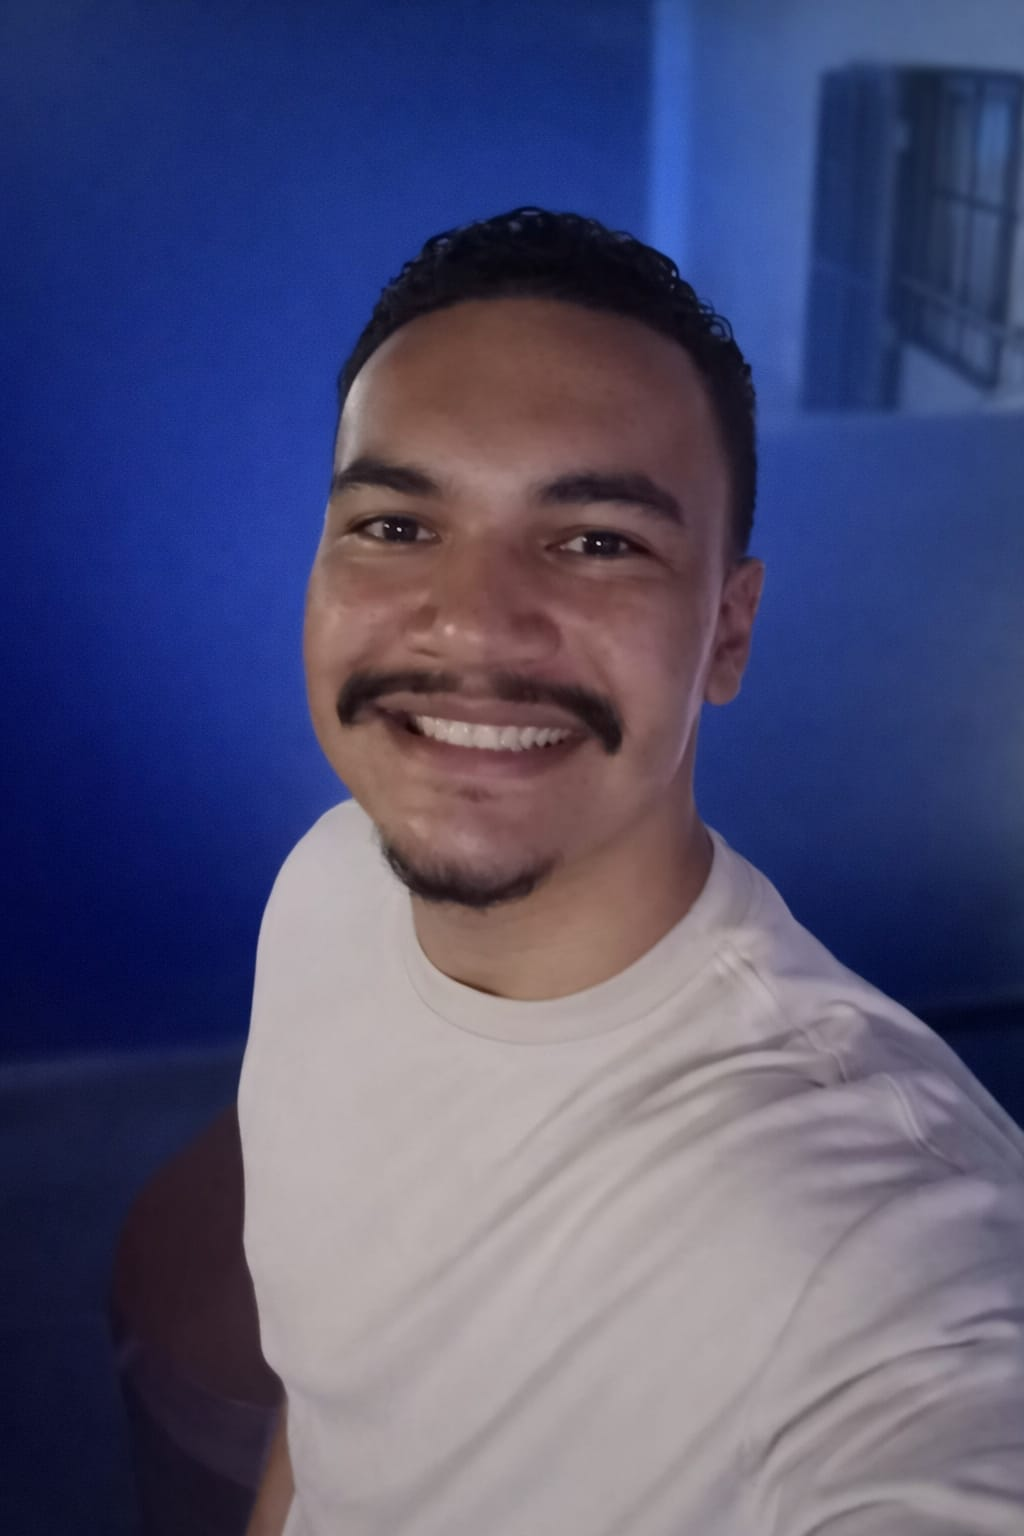
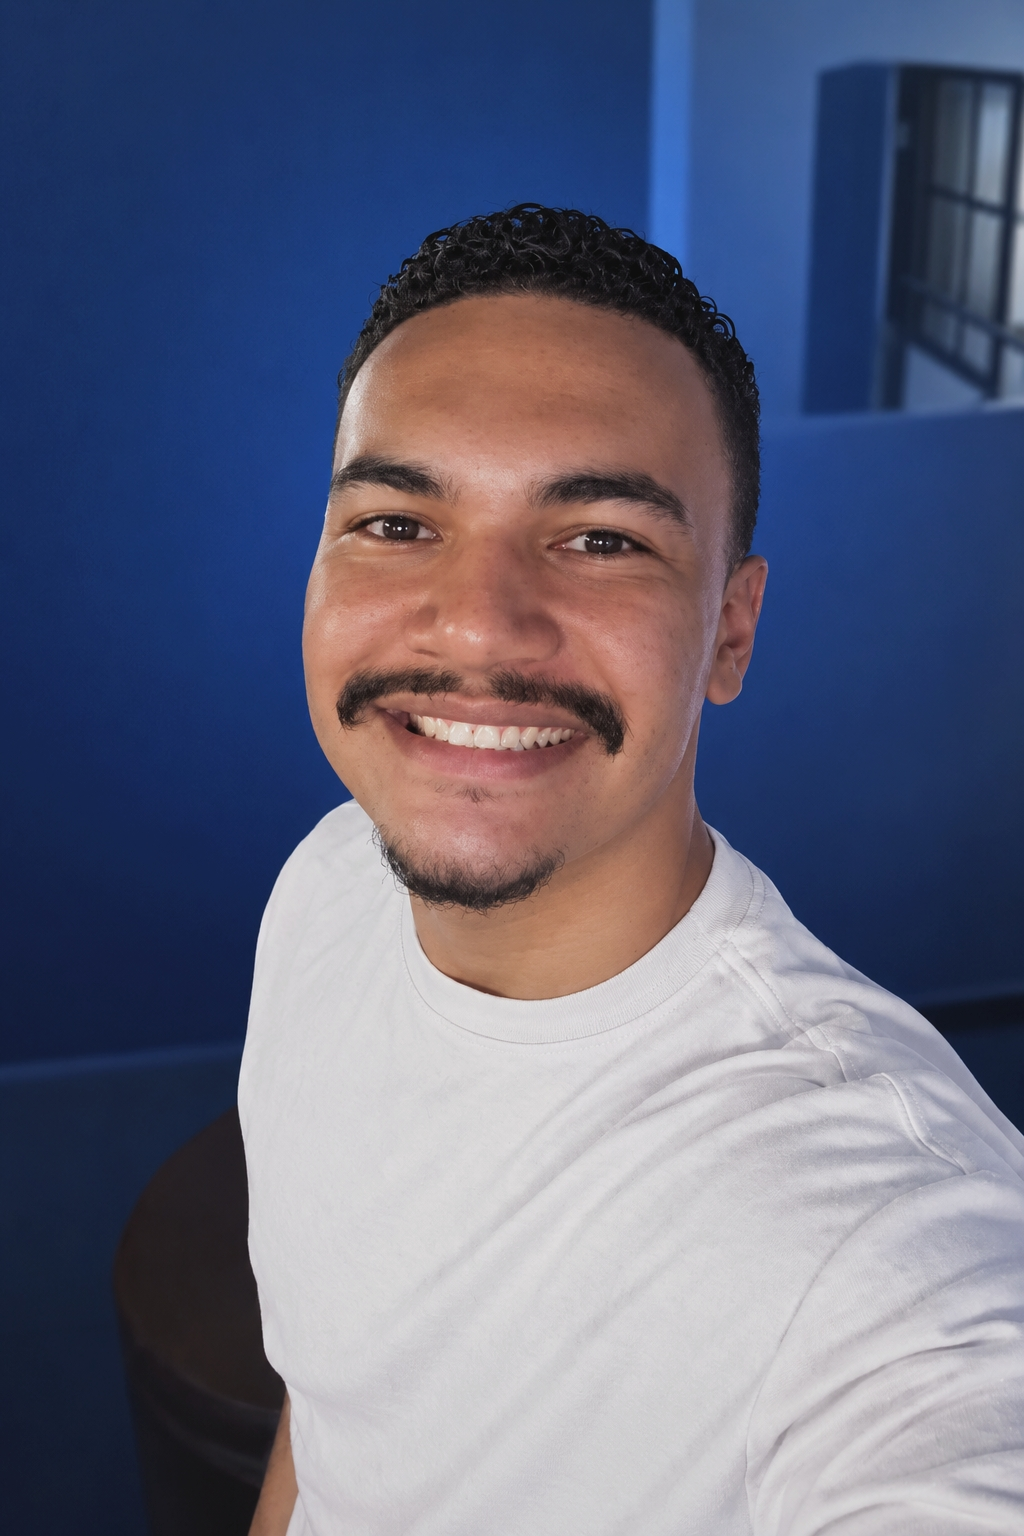
Retomada de atualização final das páginas Sobre mim e Minhas trajetórias

diff --git a/trajetoria.html b/trajetoria.html
@@ -44,24 +44,24 @@
     <section>
       <div class="container">
         <p class="placeholder-note">
-          "Cursos técnicos/técnologo"
+          Cursos técnicos/técnologo
         <ol class="timeline">
           <li class="timeline-item">
-            <span class="timeline-period">[2025] — 2026</span>
             <h3>Tecnólogo em Redes de Computadores</h3>
-            <p>[Faculdade de Tecnologia - FATEX OSASCO ]. Curso voltado à infraestrutura, protocolos e administração de redes.</p>
+            <h4>Faculdade de Tecnologia - FATEC OSASCO . Curso voltado à infraestrutura, protocolos e administração de redes.</h4>
+            <p>2025 conclusão 2026</p>
           </li>
 
           <li class="timeline-item">
-            <span class="timeline-period">[Julho/24 á Dezembro/2025]</span>
-            <h3>[Técnico em Desenvolvimento de Sistemas - DS]</h3>
-            <p>[ETEC Prof. Basilides de Godoy].[Análise de projetos. programação full-stack, teste de  sites e aplicativos e modelagem de banco de dados.]</p>
+            <h3>Técnico em Desenvolvimento de Sistemas - DS</h3>
+            <h4>ETEC Prof. Basilides de Godoy. Análise de projetos. programação full-stack, teste de  sites e aplicativos e modelagem de banco de dados.</h4>
+            <p>Julho/24 á Dezembro/2025</p>
           </li>
 
           <li class="timeline-item">
-            <span class="timeline-period">[Jan/2022 - Dezembro/2024]</span>
-            <h3>[Técnico em Jogos Digitais]</h3>
-            <p>[ETEC Prof. Basilides de Godoy]. [Criação de jogos completos para computadores, consoles, celulares, web e tablets, desde a concepção até a identidade visual.]</p>
+            <h3>Técnico em Jogos Digitais</h3>
+            <h4>ETEC Prof. Basilides de Godoy. Criação de jogos completos para computadores, consoles, celulares, web e tablets, desde a concepção até a identidade visual.</h4>
+            <p>Jan/2022 - Dezembro/2024</p>
           </li>
         </ol>
       </div>
@@ -71,25 +71,20 @@
   <section>
       <div class="container">
         <p class="placeholder-note">
-          "Cursos complementares"
+          Cursos complementares
         <ol class="timeline">
           <li class="timeline-item">
-            <span class="timeline-period">[2025] — 2026</span>
-            <h3>Tecnólogo em Redes de Computadores</h3>
-            <p>[Faculdade de Tecnologia - FATEX OSASCO ]. Curso voltado à infraestrutura, protocolos e administração de redes.</p>
+            <h3>Cisco networking academy</h3>
+            <h4>Fundamentos do Hardware do Computador(6hrs) Maio/2025</h4>
+            <p>Julho/24 á Dezembro/2025</p>
           </li>
 
           <li class="timeline-item">
-            <span class="timeline-period">[Julho/24 á Dezembro/2025]</span>
-            <h3>[Técnico em Desenvolvimento de Sistemas - DS]</h3>
-            <p>[ETEC Prof. Basilides de Godoy].[Análise de projetos. programação full-stack, teste de  sites e aplicativos e modelagem de banco de dados.]</p>
+            <h3>Segurança cibernética</h3>
+            <h4>Fundamentos de segurança de dados e vunerabilidade em redes</h4>
+            <p>Agosto/2026 á Outubro/2026</p>
           </li>
 
-          <li class="timeline-item">
-            <span class="timeline-period">[Jan/2022 - Dezembro/2024]</span>
-            <h3>[Técnico em Jogos Digitais]</h3>
-            <p>[ETEC Prof. Basilides de Godoy]. [Criação de jogos completos para computadores, consoles, celulares, web e tablets, desde a concepção até a identidade visual.]</p>
-          </li>
         </ol>
       </div>
     </section>

diff --git a/index.html b/index.html
@@ -135,23 +135,24 @@
     <section class="contact-section" id="contato">
       <div class="container">
         <p class="prompt-label">ruan@dev:~$ contato --info</p>
-        <h2 class="section-title">Vamos conversar</h2>
+        <h2 class="section-title">Entre em contato</h2>
         <p class="section-lead">Estou aberto a oportunidades, trocas de conhecimento e novos projetos. Fico à disposição pelos canais abaixo.</p>
 
         <div class="contact-grid">
           <a class="contact-card ripple-el" href="mailto:ruanfernandes.ti@outlook.com">
             <span class="label">E-mail</span>
             <span class="value">ruanfernandes.ti@outlook.com</span>
+             <img src="./src/img/microsoft-outlook.png" alt="linkedin">
           </a>
 
           <a class="contact-card ripple-el" href="https://www.linkedin.com/in/ruan-fernandes-3a396a2a1?utm_source=share_via&amp;utm_content=profile&amp;utm_medium=member_android" target="_blank" rel="noopener noreferrer">
             <span class="label">LinkedIn</span>
-            <span class="value">/in/ruan-fernandes-3a396a2a1</span>
+            <img src="./src/img/linkedin.png" alt="linkedin">
           </a>
 
           <a class="contact-card ripple-el" href="https://github.com/RuanPSilva/RuanPSilva/blob/main/README.md" target="_blank" rel="noopener noreferrer">
             <span class="label">GitHub</span>
-            <span class="value">github.com/RuanPSilva</span>
+             <img src="./src/img/github.png" alt="linkedin">
           </a>
         </div>
       </div>

diff --git a/src/style.css b/src/style.css
@@ -594,11 +594,7 @@ button:focus-visible {
   box-shadow: 0 0 0 2px var(--color-border);
 }
 
-.timeline-period {
-  font-family: var(--font-mono);
-  font-size: 0.82rem;
-  color: var(--color-accent-2);
-}
+
 
 .timeline-item h3 {
   margin-top: 6px;
@@ -833,16 +829,7 @@ button:focus-visible {
   16. CARROSSEL DE IMAGENS
    ========================================================= */
 
-.carrossel {
-  width: 100%;
-  max-width: 350px;
-  position: relative;
-  overflow: hidden;
-  border-radius: 18px;
-  border: 1px solid rgba(255, 140, 0, 0.35);
-  background: #111;
-  box-shadow: 0 15px 40px rgba(0, 0, 0, 0.35);
-}
+
 
 .carrossel-track {
   width: 100%;
@@ -856,6 +843,7 @@ button:focus-visible {
   padding: 0;
   list-style: none;
   transition: transform 0.5s ease-in-out;
+  border-radius: 10vw;
 }
 
 .carrossel-slide {

diff --git a/sobre.html b/sobre.html
@@ -57,7 +57,7 @@
         </div>
 
           <!--Teste carrosel-->
-          <section id="image-carousel" class="carrossel" aria-label="Galeria de Imagens">
+          
             <div class="carrossel-track">
               <ul class="carrossel-lista">
                 <li class="carrossel-slide">
@@ -69,7 +69,7 @@
                
               </ul>
             </div>
-          </section>
+          
 
       </div>
     </section>
